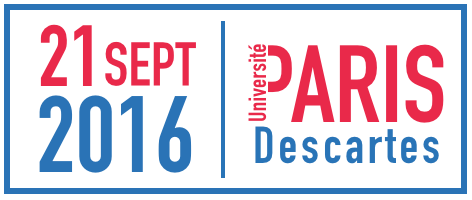
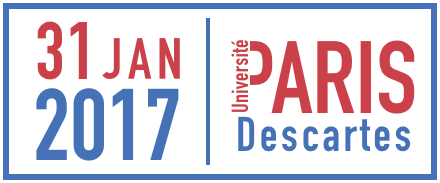
Updating the HTML template for the upcoming conference (#5)
Updating the HTML template for the upcoming ESUP-Days #23/Apereo Paris 2017 conference

diff --git a/presentations/esup-days-template/index.html b/presentations/esup-days-template/index.html
@@ -9,6 +9,8 @@
     <title>Template Presentation ESUP-Days</title>
 
     <link href='http://fonts.googleapis.com/css?family=Open+Sans' rel='stylesheet' type='text/css'>
+    <link href="https://fonts.googleapis.com/css?family=Oswald:300,400,700" rel="stylesheet"> 
+
     <link rel="stylesheet" href="css/reveal.min.css">
     <link rel="stylesheet" href="css/theme/simple.css" id="theme"> 
     <link rel="stylesheet" href="css/esup-theme.css">
@@ -28,8 +30,9 @@
           <header>
             <h1>
               <img src="./img/logo-esup--NEW.png" alt="ESUP-Portail" class="header-img upleft">
-              <img src="./img/event-datelocation.png" alt="21 sept. 2016 @Paris" class="header-img upright">
-              <img src="./img/event-title.png" alt="ESUP-Days #22" class="event-title">
+              <!--<img src="./img/event-datelocation.png" alt="21 sept. 2016 @Paris" class="header-img upright">-->
+              <img src="./img/logo-apereo.png" alt="Apereo" class="header-img upright" style="max-height: 50px; padding-top: 15px;">
+              <img src="./img/event-title.png" alt="ESUP-Days #23 / Apereo Paris 2017" class="event-title">
             </h1>
           </header>
           <div class="presentation-title">
@@ -126,6 +129,36 @@
                           </ul>  
                       </li>
                     </ul>
+                  </li>
+                </ul>
+              </li>
+            </ul>
+          </div>
+          <footer>
+            <img src="./img/communaute.png" alt="">
+          </footer>
+        </section>
+
+        <!--///////////////////////////////////////////-->
+
+        <section>
+          <header>
+            <h2>Titre slide</h2>
+            <h3 class="shadow">Mon sous-titre</h3>
+          </header>
+          <div class="slide-content">
+            <ul>
+              <li><span class="really-important">Really important<span></li>
+              <li>Quelque chose d’<span class="important">important à souligner</span> dans mon texte
+                <ul>
+                  <li>D’autres informations… <span class="somewhat-important">Plus ou moins</span> importantes
+                    <ul>
+                      <li>Sous-point (un peu plus petit)
+                        <ul>
+                          <li>Encore plus petit</li>
+                        </ul>
+                      </li>
+                    </ul>  
                   </li>
                 </ul>
               </li>
@@ -244,11 +277,12 @@
           </header>
           <div class="slide-content">
             <div class="bubble">
-              <span>This is a quote.</span>
+              <span>This was a triumph!</span>
+              <span>I'm making a note here: Huge success!</span>
             </div>
             <div class="bubble-tail"></div>
             <div class="quote-author">
-              Someone, somewhere
+              - GLaDOS (Aperture Science Labs)
             </div>
           
           </div>

diff --git a/presentations/esup-days-template/css/esup-theme.css b/presentations/esup-days-template/css/esup-theme.css
@@ -14,11 +14,11 @@
 
 body,
 .esup  {
-  font-family: 'Open Sans', Verdana,Helvetica,Arial,sans-serif;
-  color: #000;
+  font-family: 'Oswald', Verdana,Helvetica,Arial,sans-serif;
+  color: #5E5E5E;
 }
 .esup h1, .esup h2, .esup h3, .esup h4, .esup h5, .esup h6 {
-  font-family: Verdana,Helvetica,Arial,sans-serif;
+  font-family:'Oswald', Verdana,Helvetica,Arial,sans-serif;
 }
 
 .header,
@@ -105,7 +105,16 @@ body,
 .esup .center {
   text-align: center;
 }
-
+.esup .really-important {
+  color:#e9294a;
+  text-decoration: underline;
+}
+.esup .important {
+  color:#e9294a;
+}
+.esup .somewhat-important {
+ text-decoration: underline; 
+}
 .esup h4 {
   color: #E9294A;
   font-weight: bold;
@@ -123,26 +132,21 @@ body,
   padding-left: 0.15em; 
 }
 .esup ul li {
-  color: #E9294A;
-  font-weight: 700;
-}
-.esup ul li ul li {
   font-weight: normal;
-  color: #1d71b8;
+  list-style-type: square;
+}
+.esup ul li li {
   font-size: 0.95em;
 }
-.esup ul li ul li ul li {
-  font-weight: normal;
-  color: #000;
-  font-size: 0.9em;
+.esup ul li li li {
+  font-size: 0.95em;
 }
-.esup ul li ul li ul li ul li {
-  font-weight: normal;
-  color: #888;
-  font-size: 0.85em;
+.esup ul li li li li {
+  font-size: 0.95em;
+  color: #919191;
 }
-.esup ul li ul li ul li ul li ul li {
-  font-weight: normal;
+.esup ul li li li li li {
+  font-size: 0.95em;
   font-style: italic;
 }
 
@@ -275,8 +279,9 @@ body,
   color: #BBB;
   list-style: none;
   text-transform: uppercase;
-  font-size: 0.6em;
+  font-size: 0.8em;
   line-height: 1.3em;
+  font-weight: lighter;
 }
 
 .esup section.divider h3 {
@@ -292,10 +297,6 @@ body,
   opacity: 0.2;
 }
 
-/*.esup section.present h2.shadow,
-.esup section.present h3.shadow {
-  margin-bottom: 20px;
-}*/
 .esup div.slide-content {
   padding-left: 20px;
   font-size: 0.9em;
@@ -329,13 +330,11 @@ body,
   width: 100%;
   margin: 0 auto;
   display: block;
+  padding-bottom: 5px;
   border-top: 2px solid #BBB;
 }
 .esup.lighter section h2 {
   border-bottom: 2px solid #BBB;
-}
-.esup.lighter section.main-title h2 {
-  
 }
 
 .esup section.main-title h5 span.event-name {
@@ -368,7 +367,7 @@ body,
   text-align: left;
   margin-bottom: 40px;
   font-weight: bold;
-  font-size: 1.2em;
+  font-size: 1.4em;
   background: transparent;
   text-transform: uppercase;
   border: none;
@@ -414,6 +413,7 @@ body,
   font-size: 0.7em;
   color: #888;
   display: block;
+  font-weight: lighter;
 }
 
 .esup section footer img {
@@ -445,7 +445,7 @@ body,
   margin: 0 0 20px;
   border: none;
   min-height: 0;
-  font-size: 1.2em;
+  font-size: 1.4em;
 }
 .esup section header {
   padding-bottom: 10px;
@@ -462,7 +462,9 @@ body,
   color: #888;
   text-transform: uppercase;
 }
-
+.esup section .bubble span {
+  display: block;
+}
 .esup.lighter section .bubble {
   background: #1d71b8;
   border: none;

diff --git a/index.html b/index.html
@@ -67,7 +67,7 @@ title: EsupPortail.github.io Index page
 <h5>&gt; Mod&egrave;les</h5>
 <ul>
   <li>
-    <a href="presentations/esup-days-template/">Template HTML: "Pr&eacute;sentation ESUP-Days #22" (sept. 2016)</a>
+    <a href="presentations/esup-days-template/">Template HTML: "Pr&eacute;sentation ESUP-Days #23/Apereo Paris 2017" (jan. 2017)</a>
   </li>  
 </ul>
 
